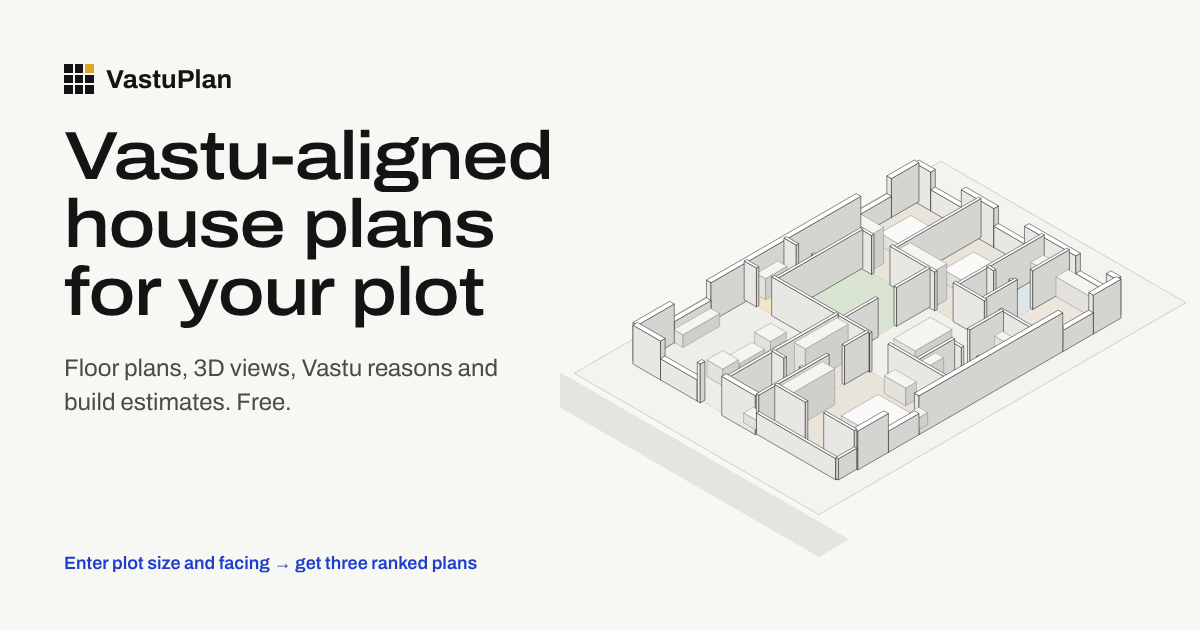
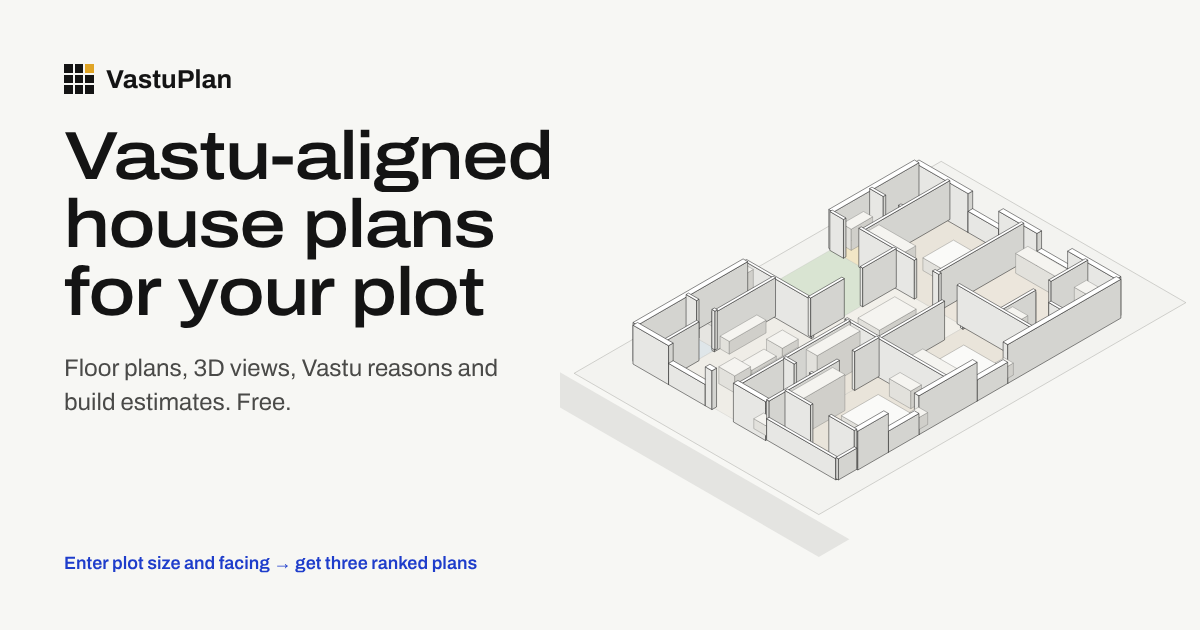
Architect's sweep fixes: no unreachable plans, narrow G+1 plots, faster search
- Relax the brief step by step (ground-floor bedroom, parking, utility, courtyard, study, pooja) instead of offering a plan with an unreachable room; show what changed at the top of the report
- First-floor balcony becomes a cantilever note on frontages under 22 ft, so 20-ft-wide G+1 plots plan
- Try the most likely band layouts first and cap search time; a 4BHK single storey went from 52 s to 16 s
- Fair Vastu grading on south/west-facing plots: road-side living room and the statutory front setback are partial, with reasons
- Honest parking note (front yard depth), actionable empty state, entry path kept clear of pits, septic access and separation guidance
- Tests for relaxation and custom setbacks

Claude-Session: https://claude.ai/code/session_01XcUbqhBkMVHdpNNBH1Kfdk

Changed region(s): [[0.555, 0.2714, 0.925, 0.6937]]

diff --git a/src/engine/design.ts b/src/engine/design.ts
@@ -54,12 +54,14 @@ function* product<T>(lists: T[][]): Generator<T[]> {
   for (const h of head) for (const r of product(rest)) yield [h, ...r];
 }
 
-function searchFloor(ctxBase: Omit<Ctx, "footprint" | "frame">, specs: Spec[], input: HouseInput, plot: Rect, buildable: Rect, opts: { fixedGeoms?: BandGeom[]; footprint?: Rect; fixed?: Placed[]; keep: number }): Candidate[] {
+function searchFloor(ctxBase: Omit<Ctx, "footprint" | "frame">, specs: Spec[], input: HouseInput, plot: Rect, buildable: Rect, opts: { fixedGeoms?: BandGeom[]; footprint?: Rect; fixed?: Placed[]; keep: number; deadline?: number }): Candidate[] {
   const bFrame = localFrame(input.facing, buildable);
   const cache = new Map<string, BandOption[]>();
   const results: Candidate[] = [];
   const seen = new Set<string>();
   for (const by of assignments(specs)) {
+    // Big programmes have thousands of layouts; stop exploring once the time budget is spent.
+    if (opts.deadline && results.length && Date.now() > opts.deadline) break;
     const shapes: { footprint: Rect; geoms: BandGeom[] }[] = [];
     if (opts.fixedGeoms && opts.footprint) shapes.push({ footprint: opts.footprint, geoms: opts.fixedGeoms });
     else {
@@ -122,13 +124,55 @@ function widthsFor(by: Record<Band, Spec[]>, frontage: number): number[] {
   return out;
 }
 
+const connected = (ds: HouseDesign[]) => ds.length > 0 && ds.every((d) => d.livability.find((c) => c.id === "access")?.status === "pass");
+
+/**
+ * Plans for the input. When the full brief does not fit as a connected house, the brief is relaxed
+ * one item at a time, the way an architect would, and the plan says what was dropped and why.
+ */
 export function generate(input: HouseInput, count = 3): HouseDesign[] {
-  const out = generateExact(input, count);
-  if (out.length || !input.parking) return out;
-  // Not enough depth for a covered car bay: plan without it and park in the front open space.
-  const alt = generateExact({ ...input, parking: false }, count);
-  alt.forEach((d) => { d.input = input; d.notes.unshift("A covered car bay did not fit on this plot along with the rooms you asked for, so the plan keeps the front open space for parking."); });
-  return alt;
+  const t0 = Date.now();
+  const first = generateExact(input, count);
+  if (connected(first)) return first;
+  const steps: [keyof HouseInput, string][] = [
+    ["parking", "PARKING"],
+    ["utility", "A separate utility room did not fit, so washing goes in the open yard at the rear or beside the kitchen."],
+    ["courtyard", "A courtyard would have cut off rooms on this plot, so the centre is a covered hall instead. A skylight over it keeps the centre bright."],
+    ["study", "A separate study did not fit; a desk in a bedroom or the living room works for now."],
+    ["pooja", "A separate pooja room did not fit. Set a pooja niche or cabinet on the north-east wall of the living room, facing east."],
+  ];
+  let relaxed: HouseInput = input;
+  const notes: string[] = [];
+  if (input.floors === 2 && !input.groundBedroom && input.bhk >= 2) {
+    relaxed = { ...relaxed, groundBedroom: true };
+    notes.push("All the bedrooms did not fit upstairs on this frontage, so one is on the ground floor, which also suits parents or guests.");
+    const alt = generateExact(relaxed, count);
+    if (connected(alt)) { alt.forEach((d) => { d.input = input; d.adjustments = [...notes]; }); return alt; }
+  }
+  for (const [k, note] of steps) {
+    if (!relaxed[k]) continue;
+    if (Date.now() - t0 > TOTAL_MS) break;
+    relaxed = { ...relaxed, [k]: false };
+    notes.push(note);
+    const alt = generateExact(relaxed, count);
+    if (connected(alt)) {
+      alt.forEach((d) => { d.input = input; d.adjustments = notes.map((n) => (n === "PARKING" ? parkingNote(d) : n)); });
+      return alt;
+    }
+  }
+  return first;
+}
+
+/** Time budget for one ground-floor search, and for the whole relaxing ladder. */
+const SEARCH_MS = 5000, TOTAL_MS = 14000;
+
+/** Where the car goes when a covered bay did not fit: the front yard if it is deep enough, otherwise say so plainly. */
+function parkingNote(d: HouseDesign): string {
+  const { plot, footprint: f } = d, fc = d.input.facing;
+  const front = fc === "N" ? f.y - plot.y : fc === "S" ? plot.y + plot.h - (f.y + f.h) : fc === "E" ? plot.x + plot.w - (f.x + f.w) : f.x - plot.x;
+  return front >= 15
+    ? `A covered car bay did not fit with the rooms you asked for, so the car parks in the ${Math.floor(front)} ft front yard.`
+    : `A car bay did not fit with the rooms you asked for, and the ${Math.floor(front)} ft front yard is too shallow for a car (about 15 ft is needed). Choose Ground + 1 or one bedroom fewer to free space for parking.`;
 }
 
 const footprintFrontage = (i: HouseInput, f: Rect) => (i.facing === "N" || i.facing === "S" ? f.w : f.h);
@@ -136,7 +180,7 @@ const footprintFrontage = (i: HouseInput, f: Rect) => (i.facing === "N" || i.fac
 function generateExact(input: HouseInput, count: number): HouseDesign[] {
   const { plot, buildable } = plotRects(input);
   if (buildable.w < 14 || buildable.h < 14) return [];
-  const ground = searchFloor({ facing: input.facing, level: 0 }, groundProgram(input, frontageOf(input, buildable), input.facing === "N" || input.facing === "S" ? buildable.h : buildable.w), input, plot, buildable, { keep: 14 });
+  const ground = searchFloor({ facing: input.facing, level: 0 }, groundProgram(input, frontageOf(input, buildable), input.facing === "N" || input.facing === "S" ? buildable.h : buildable.w), input, plot, buildable, { keep: 14, deadline: Date.now() + SEARCH_MS });
   const designs: HouseDesign[] = [];
   for (const g of ground) {
     const floors: FloorPlan[] = [];
@@ -165,7 +209,7 @@ function generateExact(input: HouseInput, count: number): HouseDesign[] {
     const builtUpArea = Math.round(floors.reduce((s, f) => s + f.rooms.filter((r) => !(r.open && r.type !== "parking")).reduce((a, r) => a + area(r.rect), 0), 0));
     designs.push({
       id: "", input, plot, buildable, footprint: g.footprint, floors, vastu, livability, vastuScore, livabilityScore,
-      score: Math.round(0.55 * vastuScore + 0.45 * livabilityScore), builtUpArea, notes: notesFor(input, livability), services: servicesFor(plot, g.footprint),
+      score: Math.round(0.55 * vastuScore + 0.45 * livabilityScore), builtUpArea, notes: notesFor(input, livability), services: servicesFor(plot, g.footprint, input.facing, g.openings.mainDoor && { x: (g.openings.mainDoor.x1 + g.openings.mainDoor.x2) / 2, y: (g.openings.mainDoor.y1 + g.openings.mainDoor.y2) / 2 }),
     });
   }
   designs.sort((a, b) => b.score - a.score);
@@ -192,6 +236,7 @@ function notesFor(i: HouseInput, liv: { id: string; score: number }[]): string[]
     "Underground sump or borewell: north-east. Septic tank: north-west, away from the north-east.",
     "Keep the north-east of the plot lowest and most open; slope the ground and roof drainage towards it.",
   ];
+  if (i.floors === 2 && i.plotWidth - 3 < 22) n.push("On a narrow plot the first-floor balcony is best built as a 3 to 4 ft cantilever over the front setback, where local rules allow projections.");
   if (i.parking && liv.find((c) => c.id === "parking" && c.score < 1)) n.push("Parking did not fit inside the house on this frontage. The front open space can take a car if the front setback is 15 ft or more.");
   return n;
 }

diff --git a/src/engine/site.ts b/src/engine/site.ts
@@ -1,12 +1,12 @@
 /** Site services (Vastu placements a mason and plumber need) and the structural column grid. */
-import type { Rect, Room, SiteService } from "./types";
+import type { Facing, Rect, Room, SiteService } from "./types";
 
 /**
  * Sump and borewell in the north-east, septic tank in the north-west (away from the north-east and
  * the walls), rainwater-harvesting pit on the north or east, overhead tank on the south-west of the roof.
  */
-export function servicesFor(plot: Rect, fp: Rect): SiteService[] {
-  const openN = fp.y - plot.y, openS = plot.y + plot.h - (fp.y + fp.h);
+export function servicesFor(plot: Rect, fp: Rect, facing?: Facing, door?: { x: number; y: number }): SiteService[] {
+  const openN = fp.y - plot.y;
   const openW = fp.x - plot.x, openE = plot.x + plot.w - (fp.x + fp.w);
   const out: SiteService[] = [];
   const ne = openN >= openE
@@ -18,12 +18,47 @@ export function servicesFor(plot: Rect, fp: Rect): SiteService[] {
   const nw = openW >= openN
     ? { x: plot.x + openW / 2, y: plot.y + plot.h * 0.22 }
     : { x: plot.x + plot.w * 0.18, y: plot.y + openN / 2 };
-  out.push({ kind: "septic", label: "Septic", ...nw, r: Math.min(2, Math.max(1, Math.max(openW, openN) / 2 - 0.4)), why: "The septic tank goes in the north-west, the air zone, kept off the corner and away from the north-east and the walls." });
+  out.push({ kind: "septic", label: "Septic", ...nw, r: Math.min(2, Math.max(1, Math.max(openW, openN) / 2 - 0.4)), why: "The septic tank goes in the north-west, the air zone, kept off the corner and away from the north-east and the walls. Keep it, and its soak pit, as far from the sump and borewell as the plot allows; public-health guidance asks for about 15 m from a drinking-water well where possible." + (facing === "N" || facing === "W" ? " On this plot the north-west is on the road side, which also lets the desludging truck reach it without crossing the house." : " Leave a clear path from the road to its manhole for the desludging truck.") });
   const rwh = openN >= openE ? { x: plot.x + plot.w * 0.55, y: plot.y + openN / 2 } : { x: plot.x + plot.w - openE / 2, y: plot.y + plot.h * 0.45 };
-  out.push({ kind: "rwh", label: "RWH", ...rwh, r: 1, why: "A rainwater-harvesting recharge pit, required for new buildings in Tamil Nadu, sits naturally on the north or east where the ground slopes." });
+  out.push({ kind: "rwh", label: "RWH", ...rwh, r: 1, why: "A rainwater-harvesting recharge pit, mandatory for new buildings in many states and cities including Tamil Nadu, Bengaluru and Delhi, sits naturally on the north or east where the ground slopes." });
   out.push({ kind: "tank", label: "Overhead tank", x: fp.x + 3, y: fp.y + fp.h - 3, r: 2.5, onRoof: true, why: "The overhead tank is the heaviest thing on the roof, so it goes over the south-west, which should be the highest and heaviest point." });
-  if (Math.min(openS, openW) > 0) { /* south and west kept as narrow as the rules allow */ }
+  if (facing && door) clearEntry(out, plot, facing, door);
   return out;
+}
+
+/**
+ * Keep the walk from the gate to the main door clear: nothing in the ground within 2.5 ft either side
+ * of the door's line to the road, and no two pits on top of each other. Pits slide along the road edge.
+ */
+function clearEntry(out: SiteService[], plot: Rect, facing: Facing, door: { x: number; y: number }) {
+  const ns = facing === "N" || facing === "S";
+  const along = (p: { x: number; y: number }) => (ns ? p.x : p.y);
+  const lo = ns ? plot.x : plot.y, hi = ns ? plot.x + plot.w : plot.y + plot.h;
+  const roadSide = (p: SiteService) => (facing === "N" ? p.y < door.y : facing === "S" ? p.y > door.y : facing === "E" ? p.x > door.x : p.x < door.x);
+  const d0 = along(door);
+  const placed: SiteService[] = [];
+  for (const p of out) {
+    if (p.onRoof) continue;
+    const clash = (a: number) => (roadSide(p) && Math.abs(a - d0) < 2.5 + p.r) || placed.some((q) => Math.hypot((ns ? a : p.x) - q.x, (ns ? p.y : a) - q.y) < p.r + q.r + 0.8);
+    let a = along(p);
+    if (clash(a)) {
+      let found = false;
+      for (let k = 1; k < 80 && !found; k++) {
+        const c1 = a + k * 0.5 * (a >= d0 ? 1 : -1), c2 = a - k * 0.5 * (a >= d0 ? 1 : -1);
+        const ok = (c: number) => c - p.r > lo + 0.5 && c + p.r < hi - 0.5 && !clash(c);
+        if (ok(c1)) { a = c1; found = true; } else if (ok(c2)) { a = c2; found = true; }
+      }
+      if (ns) p.x = a; else p.y = a;
+      if (!found && p.kind === "rwh") {
+        // Tight front yard: the pit goes under the entrance path, close to the gate, with a walkable slab.
+        p.r = 0.8;
+        const e = p.r + 0.3;
+        if (facing === "N") p.y = plot.y + e; else if (facing === "S") p.y = plot.y + plot.h - e; else if (facing === "E") p.x = plot.x + plot.w - e; else p.x = plot.x + e;
+        p.why += " On this narrow plot it sits under the entrance path near the gate, with a walkable perforated slab on top.";
+      }
+    }
+    placed.push(p);
+  }
 }
 
 const key = (x: number, y: number) => `${x.toFixed(2)},${y.toFixed(2)}`;

diff --git a/src/engine/checks.ts b/src/engine/checks.ts
@@ -70,7 +70,13 @@ export function vastuChecks(c: CheckInput): Check[] {
 
   // 8. Living
   const l = bestRoom(ground, "living");
-  if (l) { const s = prefOf("living", l.zone); add("living", "Living room in the north or east", 5, s, `Living room in the ${zname(l.zone)}.${s >= 0.85 ? " Good morning light and an open, welcoming zone." : ""}`); }
+  if (l) {
+    let s = prefOf("living", l.zone);
+    // On a south- or west-facing plot the living room has to meet the entrance on the road side.
+    const atRoad = (c.facing === "S" && (l.zone === "S" || l.zone === "SE")) || (c.facing === "W" && (l.zone === "W" || l.zone === "NW"));
+    if (atRoad) s = Math.max(s, 0.6);
+    add("living", "Living room in the north or east", 5, s, `Living room in the ${zname(l.zone)}.${prefOf("living", l.zone) >= 0.85 ? " Good morning light and an open, welcoming zone." : atRoad ? ` On a ${c.facing === "S" ? "south" : "west"}-facing plot the living room sits at the front, by the entrance, the usual and accepted arrangement. Give it windows on the north or east side if it has one, and keep that side light.` : ""}`);
+  }
 
   // 9. Other bedrooms
   const beds = all.filter((r) => r.type === "bedroom");
@@ -80,8 +86,11 @@ export function vastuChecks(c: CheckInput): Check[] {
   const openN = c.footprint.y - c.plot.y, openS = c.plot.y + c.plot.h - (c.footprint.y + c.footprint.h);
   const openW = c.footprint.x - c.plot.x, openE = c.plot.x + c.plot.w - (c.footprint.x + c.footprint.w);
   const ne = openN + openE, sw = openS + openW;
-  add("open", "More open space on the north and east", 5, ne >= sw ? 1 : ne >= sw * 0.75 ? 0.6 : 0.3,
-    `Open space: north ${openN.toFixed(1)} ft, east ${openE.toFixed(1)} ft, south ${openS.toFixed(1)} ft, west ${openW.toFixed(1)} ft. ${ne >= sw ? "More open to the north and east, as Vastu prefers." : "The south and west have more open space than the north and east."}`);
+  // On south- or west-facing plots the building rules make the road-side setback the biggest; that is not a design choice.
+  const roadOpen = c.facing === "S" ? openS : c.facing === "W" ? openW : 0;
+  const rulesOnly = ne < sw && roadOpen > 0 && ne >= sw - roadOpen;
+  add("open", "More open space on the north and east", 5, ne >= sw ? 1 : rulesOnly || ne >= sw * 0.75 ? 0.6 : 0.3,
+    `Open space: north ${openN.toFixed(1)} ft, east ${openE.toFixed(1)} ft, south ${openS.toFixed(1)} ft, west ${openW.toFixed(1)} ft. ${ne >= sw ? "More open to the north and east, as Vastu prefers." : rulesOnly ? `The extra space on the ${c.facing === "S" ? "south" : "west"} is the front setback your building rules require on the road side. Apart from it, the house is kept back from the north and east. Keep the front yard paved low and the north-east planted and open.` : "The south and west have more open space than the north and east."}`);
 
   // 11 & 12 depend on furniture
   const furn = c.floors.flatMap((f) => f.furniture);

diff --git a/src/pages/Designer.tsx b/src/pages/Designer.tsx
@@ -149,7 +149,17 @@ export default function Designer() {
 
         <div className="relative mt-3 min-h-[60vh] flex-1 lg:min-h-0">
           {!d && busy && <div className="flex h-full min-h-[60vh] items-center justify-center bg-white ring-1 ring-line"><Loader2 className="size-6 animate-spin text-muted" aria-label="Designing" /></div>}
-          {!d && !busy && <div className="flex h-full min-h-[60vh] items-center justify-center bg-white p-8 text-center ring-1 ring-line"><p className="max-w-sm text-body">This plot is too small for the rooms you've chosen. Try fewer bedrooms, two floors, or switch off parking.</p></div>}
+          {!d && !busy && <div className="flex h-full min-h-[60vh] items-center justify-center bg-white p-8 text-center ring-1 ring-line"><div className="max-w-md text-left text-body">
+            <p className="text-[17px] font-semibold text-ink">These rooms don't fit on this plot as a connected house.</p>
+            <p className="mt-2">After setbacks, the area you can build on is about {Math.round(Math.max(0, input.plotWidth - sb.left - sb.right))} × {Math.round(Math.max(0, input.plotDepth - sb.front - sb.rear))} ft. Try:</p>
+            <ul className="mt-2 list-disc space-y-1 pl-5">
+              {input.floors === 1 && input.bhk >= 2 && input.plotDepth - sb.front - sb.rear >= 31 && <li><button className="text-cobalt underline" onClick={() => set("floors", 2)}>Ground + 1</button>, with bedrooms upstairs</li>}
+              {input.bhk > 1 && <li><button className="text-cobalt underline" onClick={() => set("bhk", (input.bhk - 1) as 1 | 2 | 3)}>{input.bhk - 1} BHK</button></li>}
+              {input.parking && <li><button className="text-cobalt underline" onClick={() => set("parking", false)}>No covered parking</button></li>}
+              {input.setbacks && <li><button className="text-cobalt underline" onClick={() => setInput((i) => ({ ...i, setbacks: undefined }))}>Typical setbacks</button>, if your authority allows</li>}
+              {input.floors === 2 && input.plotDepth - sb.front - sb.rear < 31 && <li>A two-storey plan needs about 31 ft of buildable depth for a staircase and rooms front and back. On shallower plots, a single-storey 1 BHK works best.</li>}
+            </ul>
+          </div></div>}
           {d && view === "plan" && <PlanView design={d} floor={floor} layers={layers} selected={selected} onSelect={select} className="absolute inset-0" />}
           {d && view === "axon" && <AxonView design={d} floor={floor} className="absolute inset-0" />}
           {d && view === "3d" && <Suspense fallback={<div className="absolute inset-0 flex items-center justify-center bg-white ring-1 ring-line"><Loader2 className="size-6 animate-spin text-muted" aria-label="Loading 3D" /></div>}><View3D design={d} floor={floor} style={style} selected={selected} onSelect={select} className="absolute inset-0" /></Suspense>}

diff --git a/src/components/Report.tsx b/src/components/Report.tsx
@@ -38,6 +38,12 @@ export default function Report({ design }: { design: HouseDesign }) {
         <Score value={design.livabilityScore} label="Livability" size="lg" />
         <div><p className="num wide text-[48px] font-medium leading-none tracking-tight text-ink">{fmtArea(design.builtUpArea).split(" ")[0]}</p><p className="mt-1 text-[13px] text-muted">{fmtArea(0).split(" ").slice(1).join(" ")} built up</p></div>
       </div>
+      {design.adjustments?.length ? (
+        <section className="border-l-2 border-turmeric bg-[#FBF5E6] px-4 py-3">
+          <h3 className="text-[15px]">Changed from your brief so the house fits</h3>
+          <ul className="mt-2 list-disc space-y-1 pl-5 text-[13.5px] text-body">{design.adjustments.map((n) => <li key={n}>{n}</li>)}</ul>
+        </section>
+      ) : null}
       <section>
         <h3 className="text-lg">Vastu, rule by rule</h3>
         <p className="mt-1 text-[13.5px] text-muted">Traditional guidelines with their reasoning, so you can judge each one yourself. Where Vastu and daylight disagree, the plan keeps the room livable.</p>

diff --git a/src/lib/summary.ts b/src/lib/summary.ts
@@ -1,8 +1,10 @@
-import { fmtFt } from "../engine/geometry";
 import { ZONES } from "../engine/vastu";
 import type { HouseDesign } from "../engine/types";
 
 /** Plain-text description of a design, for the AI architect and for sharing. */
+// Always feet here: the AI prompt describes sizes in feet whatever unit the page shows.
+const fmtFt = (v: number) => `${+v.toFixed(1)} ft`;
+
 export function summarise(d: HouseDesign): string {
   const i = d.input;
   const lines = [
@@ -10,6 +12,7 @@ export function summarise(d: HouseDesign): string {
     `House footprint ${fmtFt(d.footprint.w)} (east-west) x ${fmtFt(d.footprint.h)} (north-south).`,
     `Scores: Vastu ${d.vastuScore}/100, livability ${d.livabilityScore}/100.`,
   ];
+  if (d.adjustments?.length) lines.push("Changed from the brief so it fits:", ...d.adjustments.map((a) => `- ${a}`));
   for (const f of d.floors) {
     lines.push(`${f.name}:`);
     for (const r of f.rooms) lines.push(`- ${r.label}: ${fmtFt(r.rect.w)} x ${fmtFt(r.rect.h)}, ${r.zone} zone (${ZONES[r.zone].name})`);

diff --git a/src/engine/program.ts b/src/engine/program.ts
@@ -75,6 +75,8 @@ export function firstProgram(i: HouseInput, frontage = 40): Spec[] {
   for (let n = 0; n < upstairs; n++) p.push(S(`bed${n + 2}`, "bedroom", `Bedroom ${n + 2}`, n === 1 ? ["rear", "front", "middle"] : ["rear", "front"], [9.5, 11.5, 14], [10, 11.5, 14], "full", 1.2, { suite: i.bhk >= 3 && suites }));
   if ((i.bhk < 3 || !suites) && upstairs > 0) p.push(S("toilet", "toilet", "Common toilet", ["middle", "rear", "front"], [4.5, 5, 6], [6.5, 7.5, 8.5], "outer", 2.5));
   if (i.study) p.push(S("study", "study", "Study", ["front", "rear"], [8, 9, 11], [8, 9, 11], "inner", 1));
-  p.push(S("balcony", "balcony", "Balcony", ["front"], [6, 10, 30], [4, 5, 6], "outer", 1));
+  // On narrow plots a full-width bedroom row leaves no room for a balcony inside the footprint;
+  // it becomes a cantilever over the front setback instead (see the notes).
+  if (frontage >= 22) p.push(S("balcony", "balcony", "Balcony", ["front"], [6, 10, 30], [4, 5, 6], "outer", 1));
   return p;
 }

diff --git a/src/engine/layout.ts b/src/engine/layout.ts
@@ -275,7 +275,11 @@ export function* assignments(specs: Spec[]): Generator<Record<Band, Spec[]>> {
   const fixedSpecs = specs.filter((s) => s.bands.length === 1 && !s.nextTo);
   const followers = specs.filter((s) => s.nextTo);
   const total = flex.reduce((n, s) => n * s.bands.length, 1);
-  for (let code = 0; code < total; code++) {
+  // Most likely layouts first: each spec lists its preferred band first, so order the codes by how
+  // many specs sit away from their first choice. Searches that run out of time keep the best ideas.
+  const away = (code: number) => { let c = code, n = 0; for (const s of flex) { if (c % s.bands.length) n++; c = Math.floor(c / s.bands.length); } return n; };
+  const codes = Array.from({ length: total }, (_, k) => k).sort((x, y) => away(x) - away(y) || x - y);
+  for (const code of codes) {
     const by: Record<Band, Spec[]> = { front: [], middle: [], rear: [] };
     fixedSpecs.forEach((s) => by[s.bands[0]].push(s));
     let c = code;

diff --git a/src/engine/engine.test.ts b/src/engine/engine.test.ts
@@ -86,4 +86,15 @@ describe("plot-aware design", () => {
     const fp = d.footprint;
     for (const [x, y] of [[fp.x, fp.y], [fp.x + fp.w, fp.y], [fp.x, fp.y + fp.h], [fp.x + fp.w, fp.y + fp.h]]) expect(d.floors[0].columns!.some((c) => Math.abs(c.x - x) < 0.01 && Math.abs(c.y - y) < 0.01)).toBe(true);
   });
+  it("relaxes the brief on a narrow plot instead of giving up, and says what changed", () => {
+    const ds = generate({ ...base, plotWidth: 20, plotDepth: 40, facing: "N", floors: 2, bhk: 3, groundBedroom: false });
+    expect(ds.length).toBeGreaterThan(0);
+    for (const d of ds) expect(d.livability.find((c) => c.id === "access")?.status).toBe("pass");
+    expect(ds[0].adjustments?.length).toBeGreaterThan(0);
+  });
+  it("uses custom setbacks", () => {
+    const d = generate({ ...base, setbacks: { front: 2, rear: 2, left: 1, right: 1 } })[0];
+    expect(d.buildable.w).toBeCloseTo(28);
+    expect(d.buildable.h).toBeCloseTo(36);
+  });
 });

diff --git a/src/pages/Method.tsx b/src/pages/Method.tsx
@@ -17,6 +17,7 @@ export default function Method() {
         <li>Rooms that could go in more than one band are tried in each. Within a band, every order is tried, with real room sizes based on architects' standard ranges.</li>
         <li>Each plan is given doors, a main entrance, windows on outside walls and furniture to scale, then scored. Plans with a room you can't walk into are discarded.</li>
         <li>The three best plans that differ from each other are shown as options A, B and C.</li>
+        <li>If your full brief doesn't fit as a connected house, it is relaxed one step at a time, the way an architect would: a bedroom moves downstairs, then covered parking, the utility room, the courtyard, the study and finally the separate pooja room give way. The plan's notes say exactly what changed and why.</li>
       </ol>
 
       <h2 className="mt-12 text-2xl">The nine zones</h2>

diff --git a/src/render/planSvg.ts b/src/render/planSvg.ts
@@ -279,7 +279,7 @@ export function renderPlanSvg(d: HouseDesign, floor: FloorPlan, opt: RenderOptio
     const mx = (main.x1 + main.x2) / 2, my = (main.y1 + main.y2) / 2;
     const off = 2.2;
     const [tx, ty] = facing === "N" ? [mx, my - off] : facing === "S" ? [mx, my + off + 0.8] : facing === "E" ? [mx + off + 1.4, my + 0.3] : [mx - off - 1.4, my + 0.3];
-    p.push(`<text x="${n(tx)}" y="${n(ty)}" font-size="0.9" font-weight="700" letter-spacing="0.3" fill="#2E3A87" text-anchor="middle">ENTRY</text>`);
+    p.push(`<text x="${n(tx)}" y="${n(ty)}" font-size="0.9" font-weight="700" letter-spacing="0.3" fill="#2E3A87" stroke="#F5F5F2" stroke-width="0.35" paint-order="stroke" text-anchor="middle">ENTRY</text>`);
   }
 
   // Dimensions of the house

diff --git a/src/engine/types.ts b/src/engine/types.ts
@@ -110,5 +110,7 @@ export interface HouseDesign {
   score: number;
   builtUpArea: number;
   notes: string[];
+  /** What was changed from the brief so the house fits, in plain words. */
+  adjustments?: string[];
   services: SiteService[];
 }
